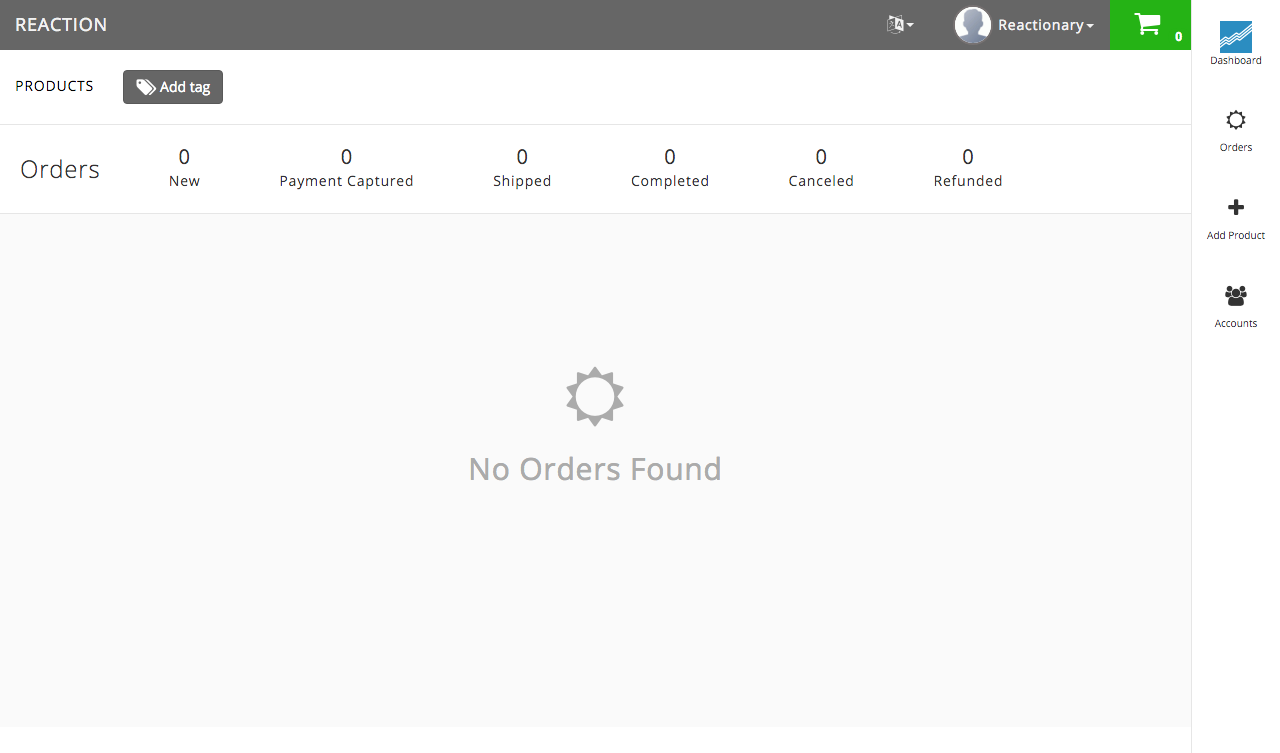
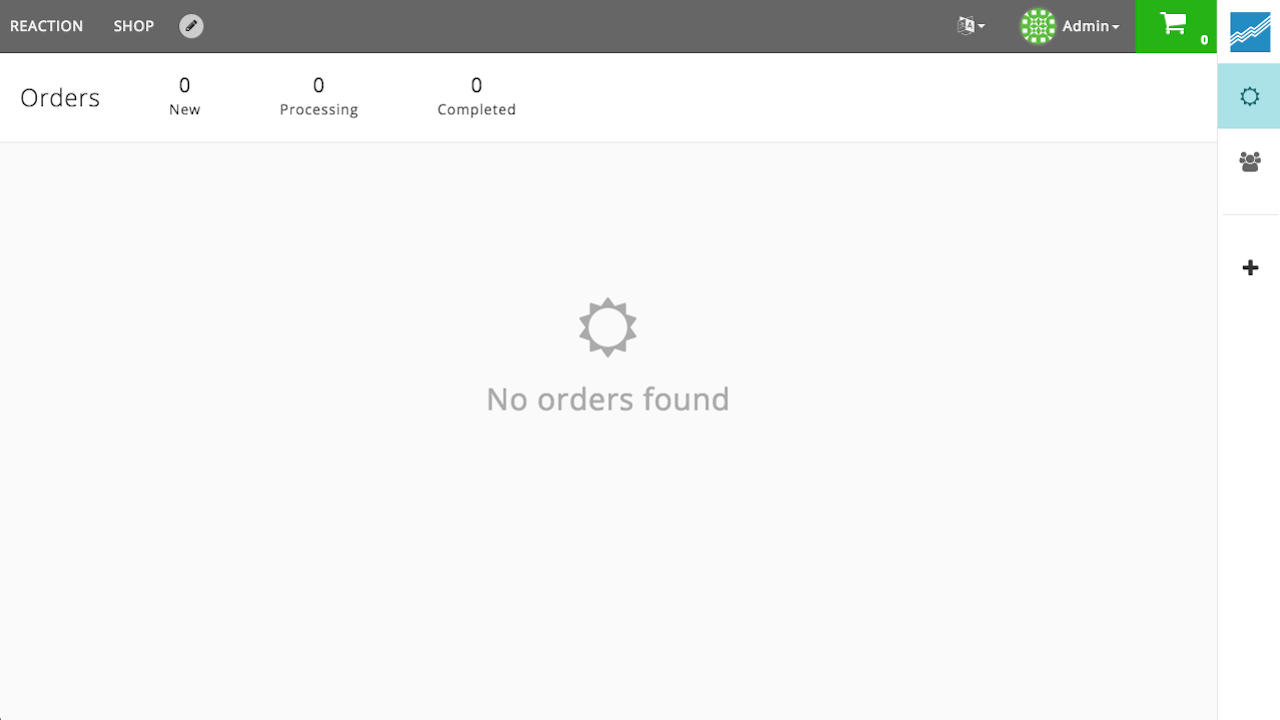
screenshots for docs

diff --git a/developer/getting-started.md b/developer/getting-started.md
@@ -1,8 +1,6 @@
 # Getting Started with Reaction
 
-Reaction is developed with the Meteor framework. Reaction also liberally uses NPM packages, and tooling.
-
-Before getting started, here's some resources worth reviewing:
+Reaction is powered by the Meteor framework and uses npm packages, as well as tooling. For more info, check out the following handy-dandy resource guides:
 
 - [Meteor Guide](http://guide.meteor.com/)
 - [Meteor Docs](http://docs.meteor.com/#/basic/)
@@ -12,15 +10,13 @@ Before getting started, here's some resources worth reviewing:
 
 ## Customization Guide
 
-If you are creating a custom store with Reaction you probably want to start with the
-[customization guide](/developer/tutorial/customization.md) which walks you through many of the common customizations that
-you may require and how to create your own custom package to store them.
+Looking to customize your store? Check out our [customization guide](/developer/tutorial/customization.md) for a walkthrough, as well as examples on how to create your own custom packages.
 
 ## Local Plugins
 
-A number of plugin modules are imported in the `reaction` local `/imports/plugins` folder. In this documentation, these local packages are commonly referred to as "Core" packages or as local plugin modules.
+A number of plugin modules are imported in the `reaction` local `/imports/plugins` folder. We will refer to these local packages as "Core" packages, or as local plugin modules.
 
-Some of the Reaction plugin modules that are included.
+Below are some of the Reaction plugin modules that are included:
 
 - reaction-accounts
 - reaction-analytics
@@ -38,24 +34,24 @@ Some of the Reaction plugin modules that are included.
 
 ### Packages
 
-We recommend importing local plugins or [**npm**](https://www.npmjs.com/) packages as the preferred way of extending Reaction functionality. 
+The preferred method of extending Reaction functionality is to import local plugins or [**npm**](https://www.npmjs.com/) packages.
 
-[Atmosphere](https://atmospherejs.com/) is the legacy Meteor package registry, and Reaction can install Meteor packages from Atmosphere.
+Reaction is also able to install Meteor packages from [Atmosphere](https://atmospherejs.com/), Meteor's legacy package registry.
 
-You can create or [use community packages](https://guide.meteor.com/atmosphere-vs-npm.html) to add customized functionality to Reaction.
+To further customize your experience, you can create or use community packages from npm and Atmosphere. For more info, [click here](https://guide.meteor.com/atmosphere-vs-npm.html).
 
 ## Roadmap
 
-For a high level review our roadmap, take a look at our features page [Reaction Vision](https://reactioncommerce.com/features)
+View our features roadmap by visiting our [Features page](https://reactioncommerce.com/features).
 
-For grouping of development channels by feature see [GitHub project milestones](https://github.com/reactioncommerce/reaction/milestones)
+You may review our progress per project by visiting our [Milestones](https://github.com/reactioncommerce/reaction/milestones) page on Github.
 
-Perhaps the best overall view, is our [Waffle board](https://waffle.io/reactioncommerce/reaction). This project board includes additional project progress for Reaction Commerce beyond just the Core.
+For a fully comprehensive view of our progress, be sure to check out our [Waffle board](https://waffle.io/reactioncommerce/reaction).
 
 ## Issues
 
-For development tasks/issues please use the [Reaction project issues of GItHub](https://github.com/reactioncommerce/reaction/issues?state=open). We're keeping this as the central issue tracking for all [reactioncommerce:*](https://github.com/reactioncommerce/) packages.
+To assign tasks or issues, please visit our project's [Issues](https://github.com/reactioncommerce/reaction/issues?state=open) page, where we track issues for all [reactioncommerce:*](https://github.com/reactioncommerce/) packages.
 
 ### Other Resources
 
-[![Gitter](https://badges.gitter.im/JoinChat.svg)](https://gitter.im/reactioncommerce/reaction?utm_source=badge&utm_medium=badge&utm_campaign=pr-badge&utm_content=badge)
+Got a question, comment, or suggestion? Check out our [![Gitter chat room](https://badges.gitter.im/JoinChat.svg)](https://gitter.im/reactioncommerce/reaction?utm_source=badge&utm_medium=badge&utm_campaign=pr-badge&utm_content=badge).

diff --git a/admin/dashboard.md b/admin/dashboard.md
@@ -1,41 +1,37 @@
 # Dashboard
 
-The Dashboard is your commerce shop's central mainframe. It's where you manage your orders, add or remove products, install apps, and change your account settings. It's where the magic happens, more or less.
+The Dashboard is your shop's central mainframe. It's where you manage your orders, add or remove products, install apps, and change your account settings. It's where the magic happens, more or less.
 
-To access your Dashboard, simply click on the blue Reaction logo icon, located on the very top right of the page. You can also click on your username, and select the Dashboard link from the dropdown menu.
+To access your Dashboard, simply click on the blue Reaction logo icon, located on the very top right of the page.
 
-![](/assets/admin-dashboard-navigation.png "Reaction Commerce Dashboard")
+![](/assets/admin-dashboard-first-visit-2.png "Reaction Commerce Dashboard")
 
 Once you're in, you'll find a selection of nifty Dashboard features:
 
-![](/assets/admin-dashboard.png "Reaction Commerce Dashboard")
+![](/assets/admin-dashboard-first-visit.png "Reaction Commerce Dashboard")
 
 ## Core
 
-View and modify your global shop settings by clicking the cogwheel icon on the right. Once you're in, you'll find the following options:
+- Settings - Configure your shop's physical address, email, payment methods, and other settings.
+- Orders - Review, manage, and process orders. For more info, visit the [Orders](https://reactioncommerce.com/docs/master/orders) section.
+- Accounts - Add, manage, and remove permissions for each of your shop members.
+- Shipping - Configure free, standard, and priority shipping rates.
+- Catalog - View all your previous and current products.
+- Taxes - Enable custom taxes, Avalara, and TaxCloud.
 
-- General: Here is where you edit your general info (name, email, site description), as well as upload new shop logos.
-- Address: Change your shipping, billing, and company address.
-- Mail: Set up and configure email.
-- Localization: Set the default timezone, currency, location, and measurement units.
-- Options: Enable or disable guest checkout.
+## Utilities
 
-## Orders
+- Routing
+- i18n
+- Inventory
+- Connect
 
-Review, manage, and process orders. For more info, visit the [Orders](https://reactioncommerce.com/docs/master/orders) section.
+## Appearance
 
-## Accounts
+- Themes
+- Layout
+- Email
 
-Here is where you manage admin roles across your account.
+##Payment Providers
 
-## Inventory
-
-Pretty self-explanatory, but this is where you manage product inventory. Learn more about [Inventory](https://reactioncommerce.com/docs/master/inventory).
-
-## Basic Shipping
-
-Add, edit, and remove flat-rate shipping rules for your shop. For more info on shipping rules, read about [Basic Shipping](https://reactioncommerce.com/docs/master/shipping).
-
-## Other Apps
-
-Configure and integrate 3rd-party apps, such as Google Analytics, social platforms, and PayPal. To install an app, click the green plus icon. To uninstall an app, click the checkmark icon. Once enabled, click the cogwheel icon to view your settings.
+##Connect
